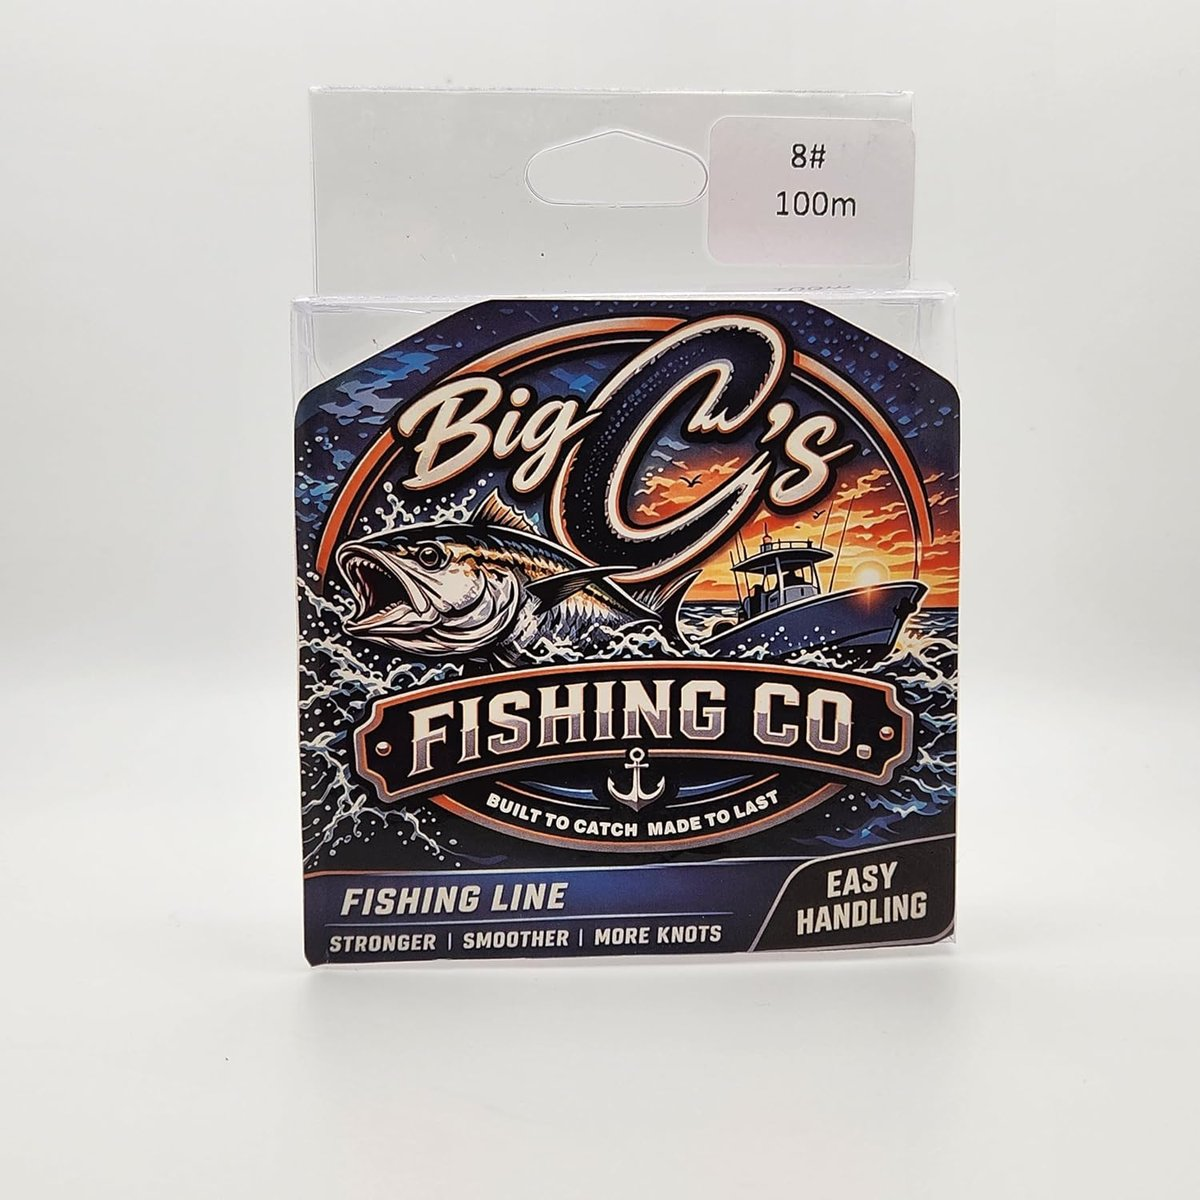
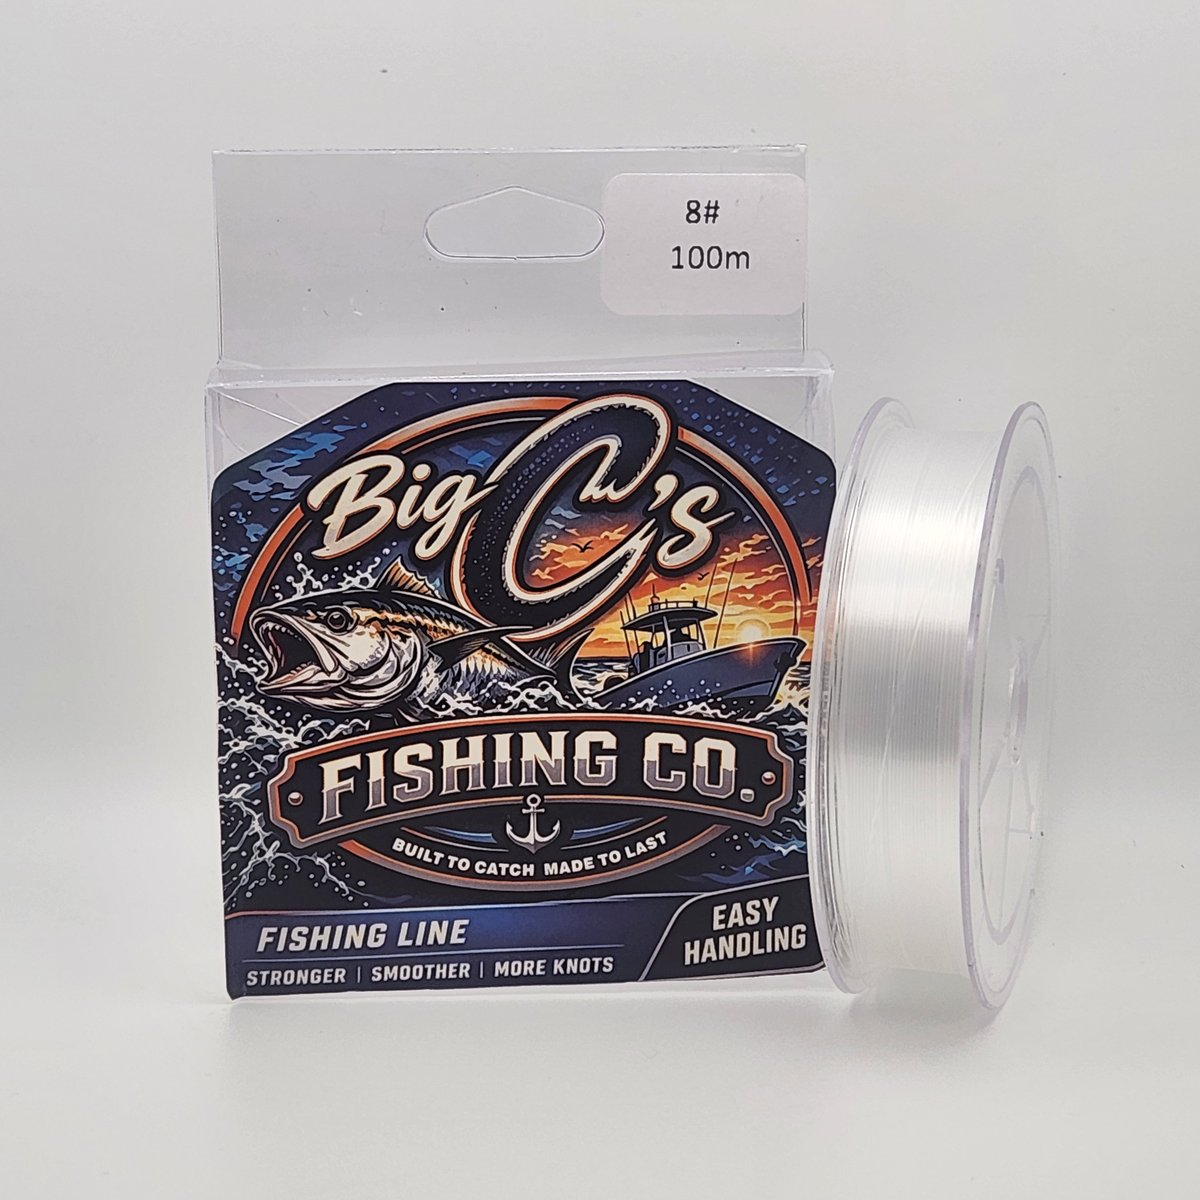
Use the owner's 8# package photo on the Monofilament Line card
Keep the previous Amazon main photo as the next image in that product's gallery.

diff --git a/index.html b/index.html
@@ -236,7 +236,7 @@
       </div>
     </div>
     <div class="card">
-      <div class="card-thumb" role="button" tabindex="0" aria-label="View Monofilament Line photos" data-gallery="assets/products/mono-line.jpg|assets/products/mono-line/02-81mTplusnEOplusVL.jpg"><img src="assets/products/mono-line.jpg" alt="Monofilament Line"><span class="more-photos" aria-hidden="true"><span></span><span></span><span></span></span></div>
+      <div class="card-thumb" role="button" tabindex="0" aria-label="View Monofilament Line photos" data-gallery="assets/products/mono-line.jpg|assets/products/mono-line/01-81UpdiZplus8XL.jpg|assets/products/mono-line/02-81mTplusnEOplusVL.jpg"><img src="assets/products/mono-line.jpg" alt="Monofilament Line"><span class="more-photos" aria-hidden="true"><span></span><span></span><span></span></span></div>
       <div class="card-body">
         <h3>Monofilament Line</h3>
         <div class="price">$8.99 <span class="ship-badge">Free Shipping</span></div>
